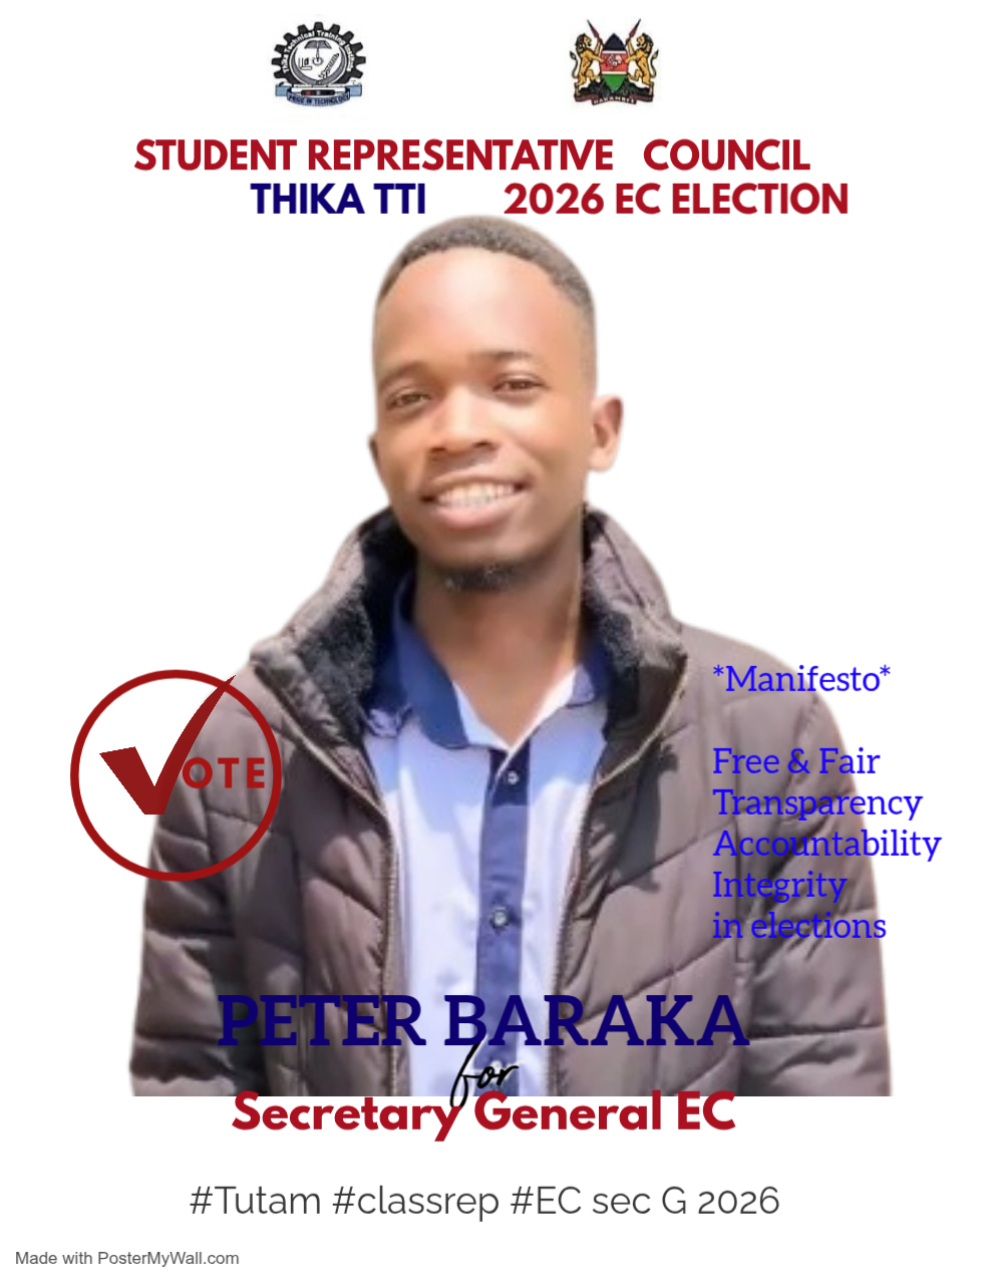
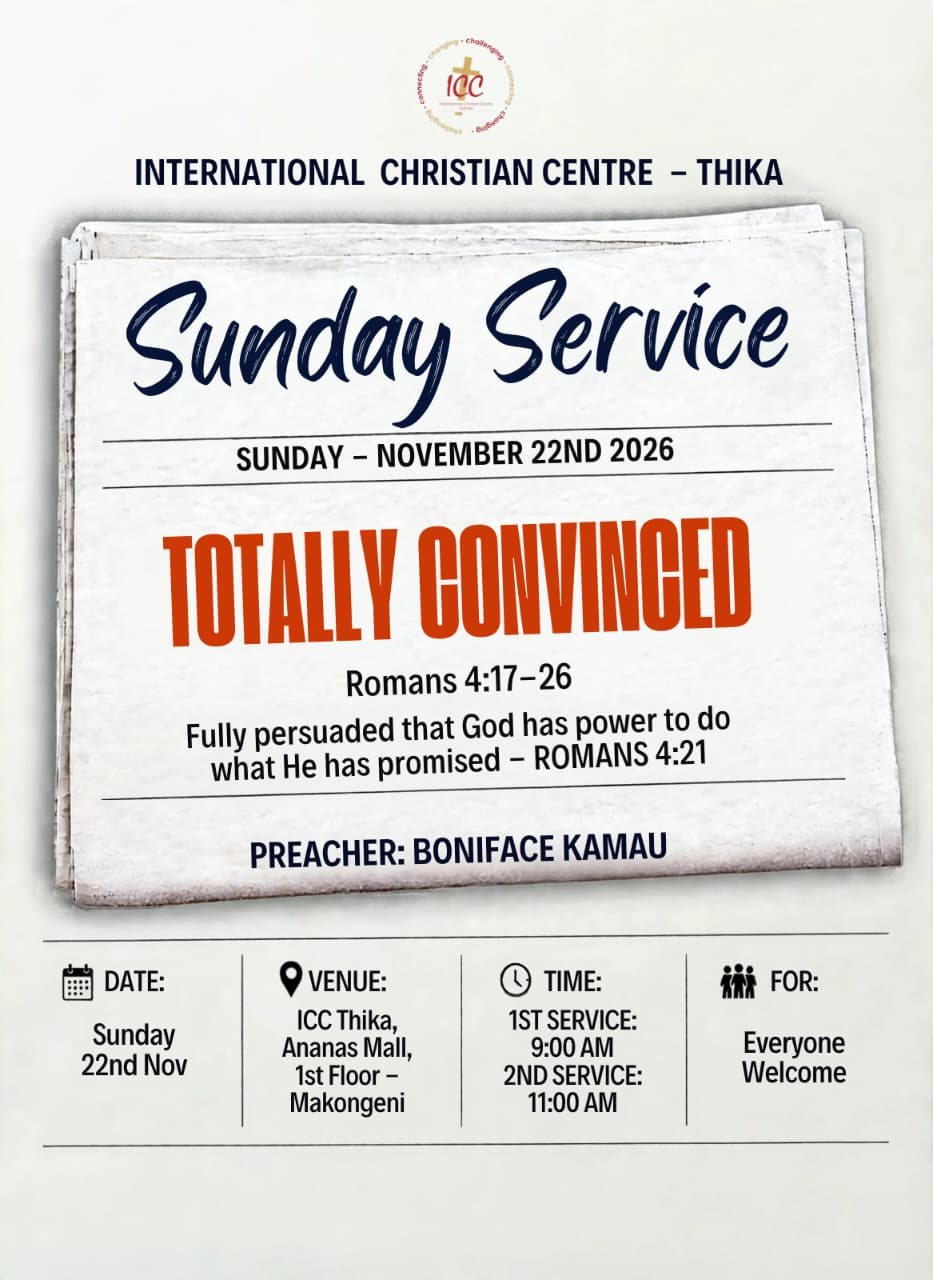
gallery update

diff --git a/designs.html b/designs.html
@@ -244,7 +244,7 @@ img{max-width:100%}
  <span class="flinks"><a class="so" href="https://www.linkedin.com/in/peter-baraka-231b7a389"><svg viewBox="0 0 24 24" width="18" height="18" aria-hidden="true" focusable="false"><rect x="1" y="1" width="22" height="22" rx="4" fill="#0A66C2"/><circle cx="7.3" cy="7.6" r="1.7" fill="#fff"/><rect x="5.9" y="10.2" width="2.8" height="8" fill="#fff"/><path d="M10.5 10.2h2.7v1.2c.5-.9 1.5-1.4 2.7-1.4 2.3 0 3.1 1.5 3.1 3.7V18.2h-2.8v-4.1c0-1-.4-1.7-1.4-1.7s-1.5.7-1.5 1.8v4h-2.8z" fill="#fff"/></svg>LinkedIn</a><a class="so" href="https://github.com/peterbrax-72"><svg viewBox="0 0 24 24" width="18" height="18" aria-hidden="true" focusable="false"><path fill="var(--gh,#181717)" d="M12 .3a12 12 0 0 0-3.8 23.4c.6.1.8-.3.8-.6v-2c-3.3.7-4-1.6-4-1.6-.6-1.4-1.4-1.8-1.4-1.8-1-.7.1-.7.1-.7 1.2.1 1.8 1.2 1.8 1.2 1.1 1.8 2.8 1.3 3.5 1 0-.8.4-1.3.7-1.6-2.7-.3-5.5-1.3-5.5-5.9 0-1.3.5-2.4 1.2-3.2 0-.4-.5-1.6.2-3.2 0 0 1-.3 3.3 1.2a11.5 11.5 0 0 1 6 0c2.3-1.5 3.3-1.2 3.3-1.2.7 1.6.2 2.9.1 3.2.8.8 1.2 1.9 1.2 3.2 0 4.6-2.8 5.6-5.5 5.9.4.4.8 1.1.8 2.2v3.3c0 .3.2.7.8.6A12 12 0 0 0 12 .3"/></svg>GitHub</a><a class="so" href="https://youtube.com/@pinchezmedia254"><svg viewBox="0 0 24 24" width="18" height="18" aria-hidden="true" focusable="false"><rect x="1" y="4.5" width="22" height="15" rx="4.5" fill="#FF0000"/><path d="M10 8.8v6.4l5.6-3.2z" fill="#fff"/></svg>YouTube</a><a class="so" href="https://instagram.com/peterbrax_72"><svg viewBox="0 0 24 24" width="18" height="18" aria-hidden="true" focusable="false"><defs><linearGradient id="ig4" x1="0" y1="1" x2="1" y2="0"><stop offset="0" stop-color="#FEDA75"/><stop offset=".25" stop-color="#FA7E1E"/><stop offset=".5" stop-color="#D62976"/><stop offset=".75" stop-color="#962FBF"/><stop offset="1" stop-color="#4F5BD5"/></linearGradient></defs><rect x="1" y="1" width="22" height="22" rx="6.5" fill="url(#ig4)"/><rect x="5.2" y="5.2" width="13.6" height="13.6" rx="4.2" fill="none" stroke="#fff" stroke-width="1.8"/><circle cx="12" cy="12" r="3.2" fill="none" stroke="#fff" stroke-width="1.8"/><circle cx="16" cy="8" r="1" fill="#fff"/></svg>Instagram</a><a class="so" href="https://t.me/peterbrax"><svg viewBox="0 0 24 24" width="18" height="18" aria-hidden="true" focusable="false"><circle cx="12" cy="12" r="11" fill="#26A5E4"/><g transform="translate(4.6 5) scale(.62)"><path fill="#fff" d="M22.3 2.4 1.9 10.3c-1.1.4-1.1 1.1-.2 1.4l5.2 1.6 2 6.2c.2.7.4.9.9.9s.7-.2 1-.5l2.5-2.4 5.1 3.8c.9.5 1.6.2 1.9-.9L23.7 4c.4-1.4-.5-2-1.4-1.6zM8.3 13.1l9.9-6.2c.5-.3.9-.1.5.2l-8 7.3-.3 3.4z"/></g></svg>Telegram</a></span>
 </footer></div>
 <script>
-var G=[{"c": "posters", "s": "/design/image1.jpg", "t": "Client Eddy Data offers"}, {"c": "posters", "s": "/design/image2.png", "t": "Client Eddy Electrical Services poster"}, {"c": "posters", "s": "/design/images3.png", "t": "Canva Electrical Poster"}, {"c": "posters", "s": "/design/images4.png", "t": "Church Sermon poster"}, {"c": "posters", "s": "/design/images5.png", "t": "Sunday Service invite poster"}, {"c": "posters", "s": "/design/images6.png", "t": "New year flyer"}, {"c": "posters", "s": "/design/images7.png", "t": "Sunday Service Program"}, {"c": "posters", "s": "/design/images8.png", "t": "Orientation invite"}, {"c": "posters", "s": "/design/images9.jpg", "t": "Election Campaign Poster"}, {"c": "cvs", "s": "/design/images10.png", "t": "Business manager CV"}, {"c": "cvs", "s": "/design/images11.png", "t": "Data analyst CV"}, {"c": "cvs", "s": "/design/images12.png", "t": "Graphic design CV"}, {"c": "cvs", "s": "/design/images14.png", "t": "Automotive engineer CV"}, {"c": "cvs", "s": "/design/images15.png", "t": "Building and Construction CV"}, {"c": "cvs", "s": "/design/images16.jpg", "t": "Psychologist CV"}, {"c": "cvs", "s": "/design/images17.png", "t": "Mechanical engineer CV"}, {"c": "posters", "s": "/design/images18.png", "t": "Public holiday poster"}, {"c": "branding", "s": "/design/images19.png", "t": "YouTube banner"}, {"c": "branding", "s": "/design/images20.png", "t": "Customised Personal calendar"}, {"c": "branding", "s": "/design/21.png", "t": "Novel Cover"}, {"c": "branding", "s": "/design/22.png", "t": "Pinchezmedia254 Logo design"}, {"c": "branding", "s": "/design/images22.png", "t": "Linkedin Banner"}, {"c": "branding", "s": "/design/images23.png", "t": "Bussiness Card Front"}, {"c": "branding", "s": "/design/images24.png", "t": "Bussiness Card Back"}, {"c": "branding", "s": "/design/graduate.png", "t": "Graduation Invitation Poster"}, {"c": "branding", "s": "/design/ratecard.png", "t": "Pinchezmedia254 Business Rate Card"}, {"c": "branding", "s": "/design/church.png", "t": "Church Events Poster Designs"}];
+var G=[{"c": "posters", "s": "/design/image1.jpg", "t": "Client Eddy Data offers"}, {"c": "posters", "s": "/design/image2.png", "t": "Client Eddy Electrical Services poster"}, {"c": "posters", "s": "/design/images3.png", "t": "Canva Electrical Poster"}, {"c": "posters", "s": "/design/images4.png", "t": "Church Sermon poster"}, {"c": "posters", "s": "/design/images5.png", "t": "Sunday Service invite poster"}, {"c": "posters", "s": "/design/images6.png", "t": "New year flyer"}, {"c": "posters", "s": "/design/images7.png", "t": "Sunday Service Program"}, {"c": "posters", "s": "/design/images8.png", "t": "Orientation invite"}, {"c": "posters", "s": "/design/images9.jpg", "t": "ICC THIKA SERVICE Poster"}, {"c": "cvs", "s": "/design/images10.png", "t": "Business manager CV"}, {"c": "cvs", "s": "/design/images11.png", "t": "Data analyst CV"}, {"c": "cvs", "s": "/design/images12.png", "t": "Graphic design CV"}, {"c": "cvs", "s": "/design/images14.png", "t": "Automotive engineer CV"}, {"c": "cvs", "s": "/design/images15.png", "t": "Building and Construction CV"}, {"c": "cvs", "s": "/design/images16.jpg", "t": "Psychologist CV"}, {"c": "cvs", "s": "/design/images17.png", "t": "Mechanical engineer CV"}, {"c": "posters", "s": "/design/images18.png", "t": "Public holiday poster"}, {"c": "branding", "s": "/design/images19.png", "t": "YouTube banner"}, {"c": "branding", "s": "/design/images20.png", "t": "Customised Personal calendar"}, {"c": "branding", "s": "/design/21.png", "t": "Novel Cover"}, {"c": "branding", "s": "/design/22.png", "t": "Pinchezmedia254 Logo design"}, {"c": "branding", "s": "/design/images22.png", "t": "Linkedin Banner"}, {"c": "branding", "s": "/design/images23.png", "t": "Bussiness Card Front"}, {"c": "branding", "s": "/design/images24.png", "t": "Bussiness Card Back"}, {"c": "branding", "s": "/design/graduate.png", "t": "Graduation Invitation Poster"}, {"c": "branding", "s": "/design/ICCVBS.jpg","t": "ICC Thika VBS Poster"}, {"c": "branding", "s": "/design/ICCTeenf.jpg", "t": "ICC Teenfest 2026"}, {"c": "branding", "s": "/design/ratecard.png", "t": "Pinchezmedia254 Business Rate Card"}, {"c": "branding", "s": "/design/church.png", "t": "Church Events Poster Designs"}];
 var gg=document.getElementById("gg"),gf="all";
 function esc(t){return t.replace(/&/g,"&amp;").replace(/</g,"&lt;").replace(/"/g,"&quot;")}
 function drawG(){
